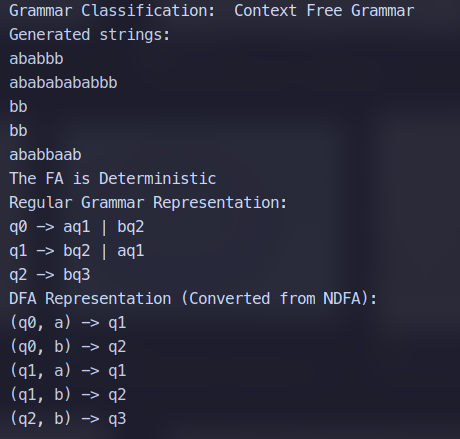
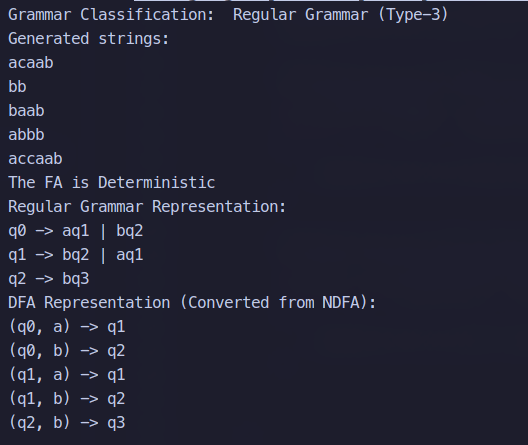
fixed raport

Changed region(s): [[0.0, 0.0, 0.913, 0.9772]]

diff --git a/2.nfa-dfa/main.py b/2.nfa-dfa/main.py
@@ -17,9 +17,9 @@ class Grammar:
         for non_terminal, productions in self.P.items():
             for production in productions:
                 if len(production) > 2:  # More than one non-terminal
-                    return "Context Free Grammar"
+                    return "Context Free Grammar (Type-2)"
                 if len(production) == 2 and not production[0].islower():  # First character should be terminal
-                    return "Context Free Grammar"
+                    return "Context Free Grammar (Type-2)"
 
         return "Regular Grammar (Type-3)"
 
